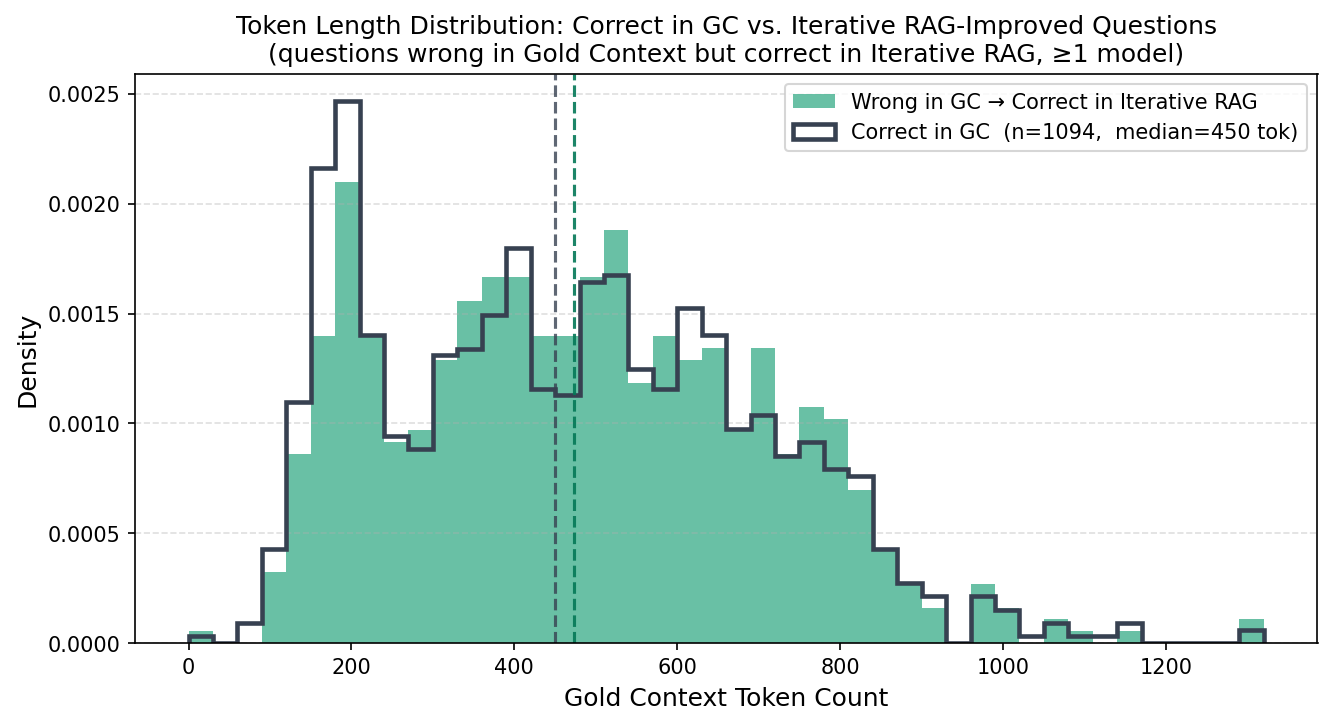
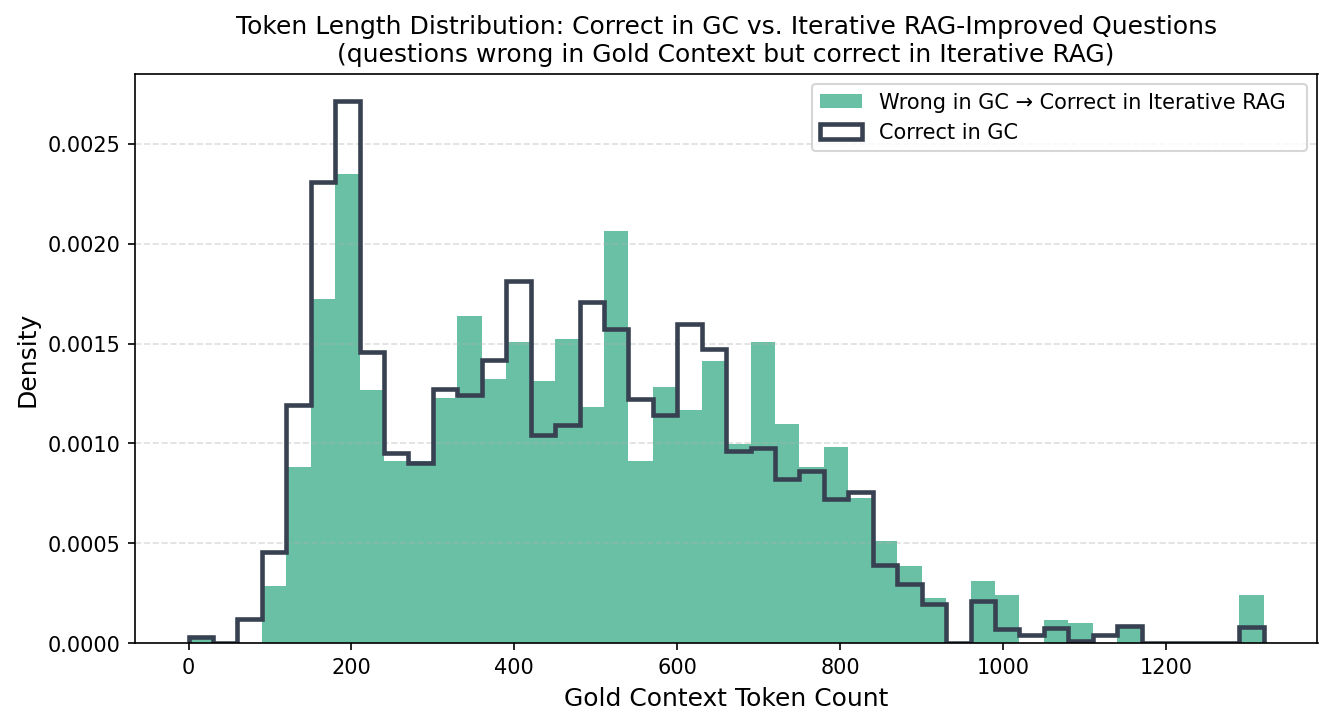
plots updated

diff --git a/src/gold_context_analysis/plot2_improved_token_distribution.py b/src/gold_context_analysis/plot2_improved_token_distribution.py
@@ -36,11 +36,22 @@ def load_gold_contexts(qa_path: Path) -> dict[str, str]:
     }
 
 
+def normalize_model_key(stem: str) -> str:
+    """Produce a canonical model key from a filename stem."""
+    s = stem
+    for suffix in ("_reverified", "-reasoning"):
+        s = s.replace(suffix, "")
+    if s.startswith("responses_"):
+        s = s[len("responses_"):]
+    return s
+
+
 def load_correctness(directory: Path, question_key_path: str) -> dict[str, dict[str, bool]]:
-    """Return {question: {model_stem: is_correct}}."""
+    """Return {question: {normalized_model_key: is_correct}}."""
     results: dict[str, dict[str, bool]] = {}
     keys = question_key_path.split(".")
     for jsonl_file in sorted(directory.glob("*.jsonl")):
+        model_key = normalize_model_key(jsonl_file.stem)
         with open(jsonl_file) as f:
             for line in f:
                 line = line.strip()
@@ -55,7 +66,7 @@ def load_correctness(directory: Path, question_key_path: str) -> dict[str, dict[
                     node = node.get(k, {}) if isinstance(node, dict) else {}
                 q = (node or "").strip() if isinstance(node, str) else ""
                 if q:
-                    results.setdefault(q, {})[jsonl_file.stem] = bool(rec.get("is_correct", False))
+                    results.setdefault(q, {})[model_key] = bool(rec.get("is_correct", False))
     return results
 
 
@@ -75,9 +86,9 @@ def main() -> None:
     print("Loading Iterative RAG responses …")
     rag_results = load_correctness(RAG_DIR, "raw_response.question")
 
-    # Build token count lists
-    gc_correct_tokens: list[int] = []   # questions correct in GC (≥1 model)
-    improved_tokens:   list[int] = []
+    # Build token count lists — one entry per (question, model) pair
+    gc_correct_tokens: list[int] = []   # each model that got it correct in GC
+    improved_tokens:   list[int] = []   # each model that went wrong→correct
 
     for question, gc_dict in gc_results.items():
         ctx = gold_contexts.get(question)
@@ -85,15 +96,16 @@ def main() -> None:
             continue
         n = len(tokenizer(ctx, add_special_tokens=False)["input_ids"])
 
-        # Correct in Gold Context: at least one model got it right
-        if any(gc_dict.values()):
-            gc_correct_tokens.append(n)
+        # Correct in Gold Context: one entry per model that got it right
+        for model, correct in gc_dict.items():
+            if correct:
+                gc_correct_tokens.append(n)
 
         rag_dict = rag_results.get(question, {})
-        common = set(gc_dict) & set(rag_dict)
-        # improved: at least one model went wrong→correct
-        if any(not gc_dict[m] and rag_dict[m] for m in common):
-            improved_tokens.append(n)
+        # Improved: one entry per model that went wrong in GC → correct in RAG
+        for model in set(gc_dict) & set(rag_dict):
+            if not gc_dict[model] and rag_dict[model]:
+                improved_tokens.append(n)
 
     gc_correct_tokens = np.array(gc_correct_tokens)
     improved_tokens   = np.array(improved_tokens)
@@ -121,20 +133,14 @@ def main() -> None:
         histtype="step",          # outline only — always visible on top
         linewidth=2.2,
         color="#374151",
-        label=f"Correct in GC  (n={len(gc_correct_tokens)},  median={int(np.median(gc_correct_tokens))} tok)",
+        label=f"Correct in GC",
     )
-
-    # Vertical median lines
-    ax.axvline(np.median(gc_correct_tokens), color="#374151", linestyle="--",
-               linewidth=1.5, alpha=0.8)
-    ax.axvline(np.median(improved_tokens), color="#047857", linestyle="--",
-               linewidth=1.5, alpha=0.9)
 
     ax.set_xlabel("Gold Context Token Count", fontsize=12)
     ax.set_ylabel("Density", fontsize=12)
     ax.set_title(
         "Token Length Distribution: Correct in GC vs. Iterative RAG-Improved Questions\n"
-        "(questions wrong in Gold Context but correct in Iterative RAG, ≥1 model)",
+        "(questions wrong in Gold Context but correct in Iterative RAG)",
         fontsize=12,
     )
     ax.legend(fontsize=10)
